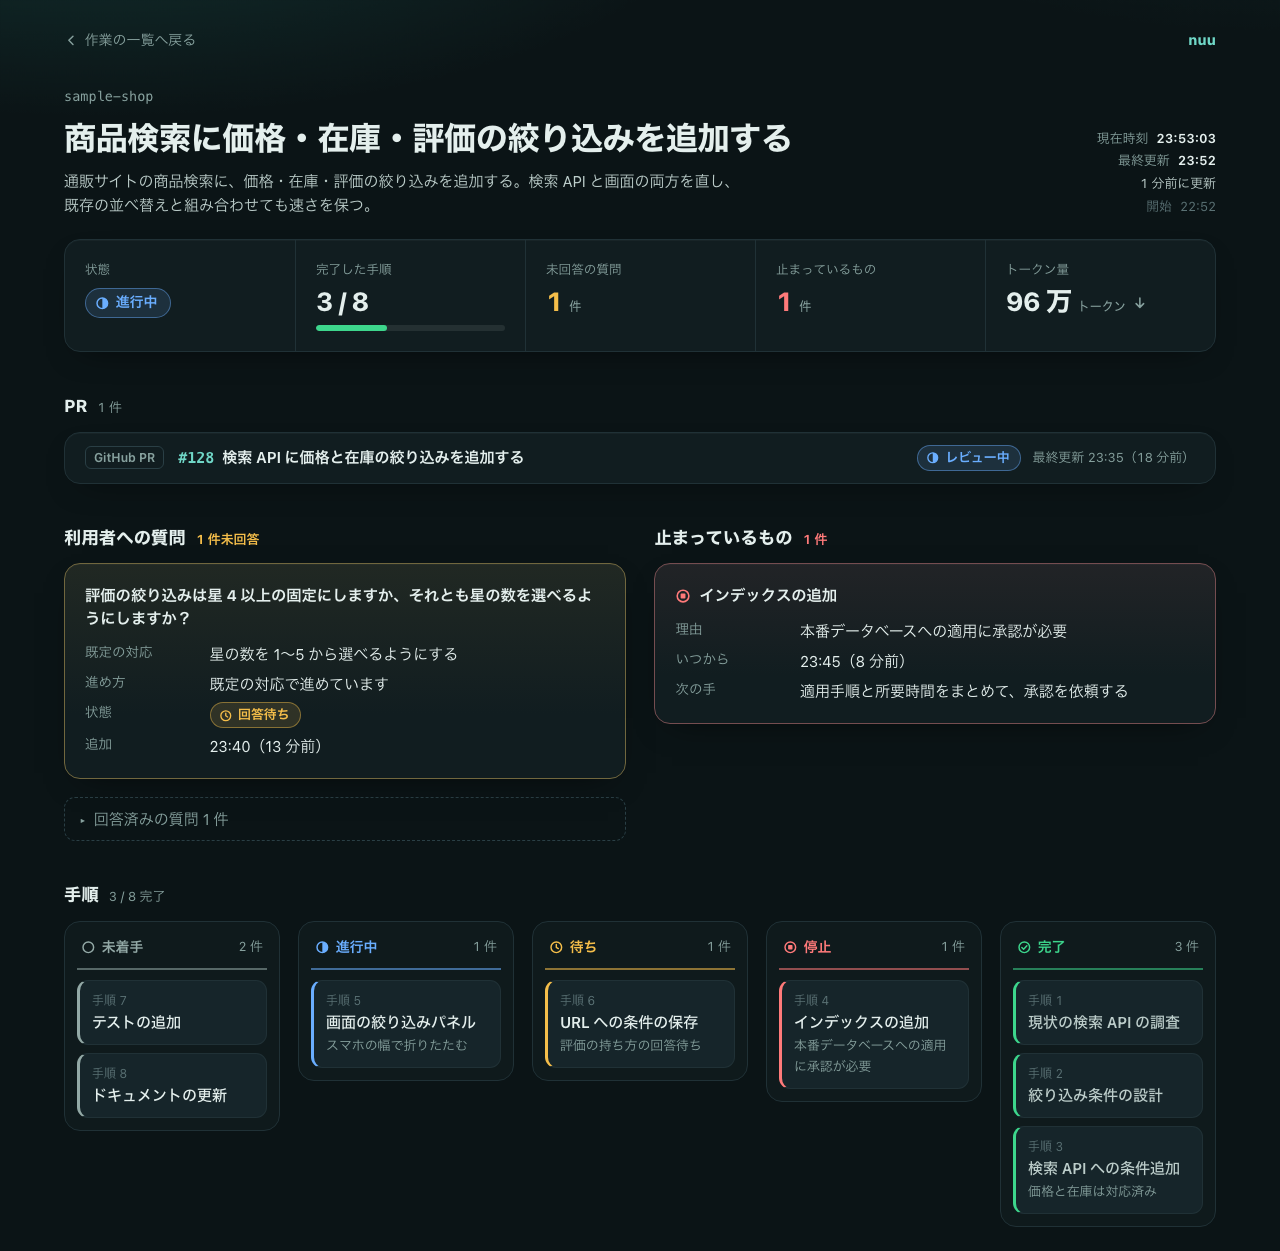
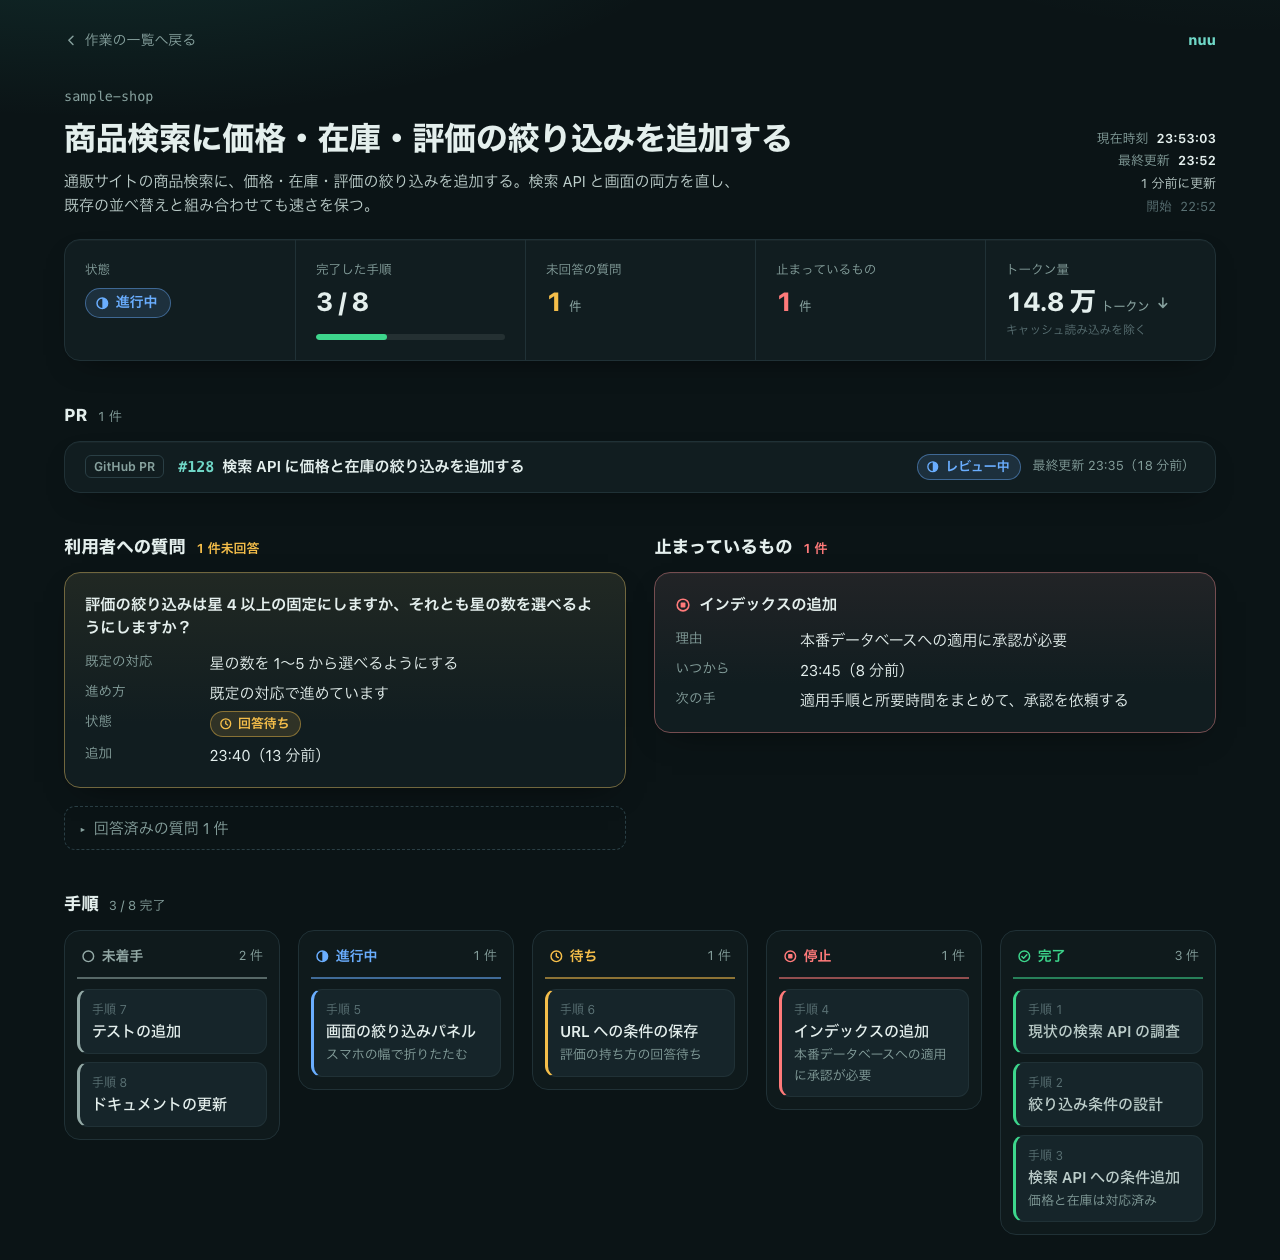
トークン量をキャッシュの読み込みを除いた値で見せる
作業の合計トークンは、応答のたびに会話全体をキャッシュから読み直す分がほとんどを占め、作業の大きさの実感と合わない。主に見せる値を、合計からキャッシュの読み込みを除いた量（入力 + 出力 + キャッシュの書き込み）にする。

- 作業ごとのページの上部の要約は、キャッシュの読み込みを除いた値を出し、「キャッシュ読み込みを除く」と添える
- 下部のトークン量は、キャッシュの読み込みを除いた値の下に、キャッシュの読み込みを含む合計を並べる
- 一覧の各行は、キャッシュの読み込みを除いた値を出し、状態ごとの件数の下にその旨を 1 行添える
- cacheRead がないか数でなければ 0 として扱い、結果が負になるときは 0 にする
- .usage.js の形と集計のしかたは変えない
- README と説明ページに、見せ方とその理由を書く

diff --git a/client/nuu.js b/client/nuu.js
@@ -112,6 +112,13 @@
     return /^https:\/\/[^\s\/?#]+([\/?#]\S*)?$/.test(text(url)) ? text(url) : null;
   }
 
+  // 合計からキャッシュの読み込みを除いた量（入力 + 出力 + キャッシュの書き込み）。集計前は null。
+  // 応答のたびに会話全体をキャッシュから読み直すので、合計のほとんどはキャッシュの読み込みになり、作業の大きさの実感と合わない。
+  function freshTokens(totals) {
+    if (!isObject(totals) || num(totals.total) === null) return null;
+    return Math.max(0, num(totals.total) - (num(totals.cacheRead) || 0));
+  }
+
   // 作業ディレクトリを単一引用符で囲み、中の ' は '\'' に置き換える。
   function resumeCommand(sessionId, cwd) {
     var command = 'claude --resume ' + sessionId;
@@ -386,12 +393,13 @@
     var tokens = input.tokens === null
       ? [h('span', { class: 'nuu-big nuu-muted', text: '集計前' }), icon('down')]
       : [h('span', { class: 'nuu-big', text: short(input.tokens) }), h('span', { class: 'nuu-unit', text: 'トークン' }), icon('down')];
+    var tokenNote = input.tokens === null ? null : h('span', { class: 'nuu-stat-note', 'data-role': 'token-note', text: 'キャッシュ読み込みを除く' });
     return [
       stat('状態', workBadge(input.status, 'nuu-badge-lg')),
       stat('完了した手順', [h('span', { class: 'nuu-big', text: input.done + ' / ' + input.total })], null, bar(input.done, input.total, 'done')),
       stat('未回答の質問', [h('span', { class: 'nuu-big', 'data-tone': input.questions ? 'waiting' : null, text: input.questions }), h('span', { class: 'nuu-unit', text: '件' })]),
       stat('止まっているもの', [h('span', { class: 'nuu-big', 'data-tone': input.blockers ? 'blocked' : null, text: input.blockers }), h('span', { class: 'nuu-unit', text: '件' })]),
-      stat('トークン量', tokens, { href: '#usage', class: 'nuu-stat nuu-stat-link', 'data-role': 'token-total' })
+      stat('トークン量', tokens, { href: '#usage', class: 'nuu-stat nuu-stat-link', 'data-role': 'token-total' }, tokenNote)
     ];
   }
 
@@ -801,21 +809,25 @@
     return group === 'byCategory' ? (isObject(holder) ? num(holder.total) : null) : num(holder);
   }
 
+  function usageTotal(label, value, role) {
+    return h('div', { class: 'nuu-usage-total' }, [
+      h('span', { class: 'nuu-field-label', text: label }),
+      h('div', { class: 'nuu-usage-values' }, [
+        h('strong', { class: 'nuu-big', 'data-role': role + '-short', text: short(value) }),
+        h('span', { class: 'nuu-unit', text: 'トークン' }),
+        h('span', { class: 'nuu-exact', 'data-role': role + '-exact', text: exact(value) })
+      ])
+    ]);
+  }
+
   function renderUsage(input) {
     var head = sectionHead('トークン量', null);
     if (!isObject(input) || !isObject(input.totals)) return [head, h('p', { class: 'nuu-empty', 'data-role': 'usage-empty', text: '集計前' })];
-    var total = num(input.totals.total) || 0;
     return [
       head,
       h('div', { class: 'nuu-card nuu-usage' }, [
-        h('div', { class: 'nuu-usage-total' }, [
-          h('span', { class: 'nuu-field-label', text: '合計' }),
-          h('div', { class: 'nuu-usage-values' }, [
-            h('strong', { class: 'nuu-big', 'data-role': 'usage-short', text: short(total) }),
-            h('span', { class: 'nuu-unit', text: 'トークン' }),
-            h('span', { class: 'nuu-exact', 'data-role': 'usage-exact', text: exact(total) })
-          ])
-        ]),
+        usageTotal('キャッシュ読み込みを除く', freshTokens(input.totals) || 0, 'usage-fresh'),
+        usageTotal('合計（キャッシュ読み込みを含む）', num(input.totals.total) || 0, 'usage'),
         h('div', { class: 'nuu-usage-groups' }, USAGE_PARTS.map(function (part) {
           return h('div', { class: 'nuu-usage-group' }, [
             h('h3', { class: 'nuu-h3', text: part[0] }),
@@ -857,7 +869,7 @@
         total: tasks.length,
         questions: questions.filter(function (q) { return !isAnswered(q); }).length,
         blockers: blockers.length,
-        tokens: u && isObject(u.totals) ? num(u.totals.total) : null
+        tokens: u ? freshTokens(u.totals) : null
       }, renderStats) || any;
       var reviews = d ? list(d.reviews).filter(isObject) : [];
       any = slot(root, 'reviews', d && reviews, renderReviews) || any;
@@ -928,7 +940,7 @@
   function indexRow(item) {
     var href = itemHref(item);
     var usage = item.usage;
-    var tokens = usage && isObject(usage.totals) ? num(usage.totals.total) : null;
+    var tokens = usage ? freshTokens(usage.totals) : null;
     var session = usage && text(usage.sessionId) ? text(usage.sessionId).slice(0, 8) : null;
     var status = workStatus(item.status);
     var done = num(item.done) || 0;
@@ -996,7 +1008,7 @@
         h('span', { text: WORK[key].label }),
         h('strong', { text: groups[key].length })
       ]);
-    });
+    }).concat([h('p', { class: 'nuu-note nuu-overview-note', 'data-role': 'token-note', text: 'トークン量は、キャッシュの読み込みを除いた量です' })]);
   }
 
   // 一覧のデータ（と作業ごとの .usage.js の値）を受け取り、変わった欄だけを描き直す。

diff --git a/tests/client/task.spec.js b/tests/client/task.spec.js
@@ -463,6 +463,7 @@ test.describe('トークン量', () => {
     await expect(root(page)).toHaveAttribute('data-usage-state', 'missing');
     await expect(page.locator('[data-role="token-total"]')).toContainText('集計前');
     await expect(page.locator('[data-role="token-total"]')).toHaveAttribute('href', '#usage');
+    await expect(page.locator('[data-role="token-note"]')).toHaveCount(0);
     await expect(page.locator('#usage')).toContainText('集計前');
     await expect(page.locator('#session')).toContainText('集計前');
     await expect(page.locator('.nuu-panel')).toHaveCount(7);
@@ -470,13 +471,54 @@ test.describe('トークン量', () => {
 
   test('大きな数は短く出し、正確な値を 3 桁区切りで添える', async ({ page }) => {
     await openAt(page, board.taskUrl());
-    await expect(page.locator('[data-role="token-total"]')).toContainText('96 万');
     await expect(page.locator('[data-role="usage-short"]')).toHaveText('96 万');
     await expect(page.locator('[data-role="usage-exact"]')).toHaveText('959,950');
     await expect(page.locator('#usage')).toContainText('目安です。サブエージェントの出力トークンは少なめに出ることがあります');
     const formats = await page.evaluate(() => [8500, 10000, 191000, 959950, 1180000, 99999999, 123456789, 0].map(window.NUU.format.short));
     expect(formats).toEqual(['8,500', '1 万', '19.1 万', '96 万', '118 万', '1 億', '1.2 億', '0']);
     expect(await page.evaluate(() => window.NUU.format.exact(1234567))).toBe('1,234,567');
+  });
+
+  test('上部の要約と下部の先頭は、合計からキャッシュの読み込みを除いた値を出し、下部には合計も並べる', async ({ page }) => {
+    await openAt(page, board.taskUrl());
+    const top = page.locator('[data-role="token-total"]');
+    await expect(top.locator('.nuu-big')).toHaveText('14.8 万');
+    await expect(top.locator('[data-role="token-note"]')).toHaveText('キャッシュ読み込みを除く');
+    const labels = page.locator('#usage .nuu-usage-total .nuu-field-label');
+    await expect(labels).toHaveText(['キャッシュ読み込みを除く', '合計（キャッシュ読み込みを含む）']);
+    // 合計は、キャッシュの読み込みを除いた値の下に並べる。
+    const fresh = await page.locator('[data-role="usage-fresh-short"]').boundingBox();
+    const total = await page.locator('[data-role="usage-short"]').boundingBox();
+    expect(total.y).toBeGreaterThanOrEqual(fresh.y + fresh.height);
+    await expect(page.locator('[data-role="usage-fresh-short"]')).toHaveText('14.8 万');
+    await expect(page.locator('[data-role="usage-fresh-exact"]')).toHaveText('147,550');
+    await expect(page.locator('[data-role="usage-short"]')).toHaveText('96 万');
+    await expect(page.locator('[data-role="usage-exact"]')).toHaveText('959,950');
+    // 内訳と種類は今までどおり、キャッシュの読み込みも含めて出す。
+    await expect(page.locator('#usage .nuu-usage-item').filter({ hasText: 'キャッシュ読み込み' })).toContainText('812,400');
+  });
+
+  test('キャッシュの読み込みがないときは合計をそのまま使い、合計より大きいときは 0 にする', async ({ page }) => {
+    const missing = usage();
+    delete missing.totals.cacheRead;
+    board.writeUsage(SAMPLE, missing);
+    await openAt(page, board.taskUrl());
+    await expect(page.locator('[data-role="token-total"] .nuu-big')).toHaveText('96 万');
+    await expect(page.locator('[data-role="usage-fresh-exact"]')).toHaveText('959,950');
+
+    const broken = usage();
+    broken.totals.cacheRead = 'many';
+    board.writeUsage(SAMPLE, broken);
+    await nextPoll(page);
+    await expect(page.locator('[data-role="usage-fresh-exact"]')).toHaveText('959,950');
+
+    const over = usage();
+    over.totals.cacheRead = 1000000;
+    board.writeUsage(SAMPLE, over);
+    await nextPoll(page);
+    await expect(page.locator('[data-role="token-total"] .nuu-big')).toHaveText('0');
+    await expect(page.locator('[data-role="usage-fresh-exact"]')).toHaveText('0');
+    await expect(page.locator('[data-role="usage-exact"]')).toHaveText('959,950');
   });
 
   test('正常な .usage.js の読み直しは成功、構文が壊れた .usage.js は失敗として扱い、表示は前の値のまま', async ({ page }) => {
@@ -495,7 +537,7 @@ test.describe('トークン量', () => {
     await nextPoll(page);
     await expect(root(page)).toHaveAttribute('data-usage-state', 'ok');
     await expect(page.locator('[data-role="usage-short"]')).toHaveText('200 万');
-    await expect(page.locator('[data-role="token-total"]')).toContainText('200 万');
+    await expect(page.locator('[data-role="token-total"]')).toContainText('119 万');
 
     // 同じ内容をもう一度読んでも、入れ替わったので成功として扱う。
     await nextPoll(page);

diff --git a/docs/index.html b/docs/index.html
@@ -224,7 +224,7 @@ footer { max-width: 1000px; margin: 0 auto; padding-top: 40px; border-top: 1px s
     </div>
     <div class="shots">
       <figure class="shot">
-        <img src="images/dashboard-desktop.png" width="1280" height="1251" alt="作業ごとのダッシュボードの上部。状態、完了した手順、未回答の質問、止まっているもの、トークン量の要約。そのすぐ下に作業に関係する PR / MR を並べた「PR」の欄（GitHub の PR #128、題名、レビュー中の札、最終更新）。その下に利用者への質問と止まっているもの、未着手、進行中、待ち、停止、完了の列に分かれた手順のカンバンが並ぶ">
+        <img src="images/dashboard-desktop.png" width="1280" height="1260" alt="作業ごとのダッシュボードの上部。状態、完了した手順、未回答の質問、止まっているもの、トークン量の要約。そのすぐ下に作業に関係する PR / MR を並べた「PR」の欄（GitHub の PR #128、題名、レビュー中の札、最終更新）。その下に利用者への質問と止まっているもの、未着手、進行中、待ち、停止、完了の列に分かれた手順のカンバンが並ぶ">
         <figcaption>作業ごとのダッシュボード。架空の通販サイトの作業で作った見本です。</figcaption>
       </figure>
       <figure class="shot phone">
@@ -238,14 +238,14 @@ footer { max-width: 1000px; margin: 0 auto; padding-top: 40px; border-top: 1px s
       <li><b>質問と既定の対応</b><span>判断が必要になっても止まらず、既定の対応で進めていることを載せます。</span></li>
       <li><b>止まっているもの</b><span>何が、なぜ、いつから止まっていて、次に何をするかを載せます。</span></li>
       <li><b>作業の PR / MR</b><span>作業に関係する GitHub の PR と GitLab の MR を、番号、題名、状態（下書き、レビュー中、マージ済み、閉じた）と一緒に載せます。一覧の行の札からも開けます。</span></li>
-      <li><b>トークン量の目安</b><span>作業本体と、ダッシュボードの作成と更新に分けて、使ったトークン量を出します。</span></li>
+      <li><b>トークン量の目安</b><span>作業本体と、ダッシュボードの作成と更新に分けて、使ったトークン量を出します。上部と一覧には、大半を占めるキャッシュの読み込みを除いた量を出し、合計は下部に並べます。</span></li>
       <li><b>作業したセッションに戻る</b><span>セッションの ID と、<code>claude --resume</code> で再開するコマンドを載せます。コピーして、作業した会話に戻れます。</span></li>
       <li><b>全体の一覧</b><span>全プロジェクトの作業を並べ、更新が止まっている作業を目立たせます。</span></li>
       <li><b>ブラウザで開くだけ</b><span>サーバーもツールも要りません。HTML を開けばブラウザで見られ、10 秒ごとにデータだけを読み直します。ページごと再読み込みしないので、ちらつかず、スクロール位置もそのままです。</span></li>
       <li><b>好みはひとつ</b><span>テーマ、密度、アクセントカラー、タスクの表示を、すべてのダッシュボードで共通に使います。変えると、開いているページにも 10 秒ほどで届きます。</span></li>
     </ul>
     <figure class="shot">
-      <img src="images/index-desktop.png" width="1280" height="1387" alt="全プロジェクトの作業を進行中、中断中、完了に分けて並べた一覧。各行に作業名、プロジェクト名、セッションの ID の先頭、PR / MR の札（PR #128、MR !42 など。多いときは先頭の 3 件と「ほか n 件」）、状態、完了した手順、未回答の質問、止まっているもの、トークン量が並び、15 分以上更新のない進行中の作業は目立たせる">
+      <img src="images/index-desktop.png" width="1280" height="1419" alt="全プロジェクトの作業を進行中、中断中、完了に分けて並べた一覧。各行に作業名、プロジェクト名、セッションの ID の先頭、PR / MR の札（PR #128、MR !42 など。多いときは先頭の 3 件と「ほか n 件」）、状態、完了した手順、未回答の質問、止まっているもの、トークン量が並び、15 分以上更新のない進行中の作業は目立たせる">
       <figcaption>全プロジェクトの作業の一覧。</figcaption>
     </figure>
     <figure class="shot">

diff --git a/tests/client/index.spec.js b/tests/client/index.spec.js
@@ -16,7 +16,7 @@ const titles = (page, group) => page.locator(`.nuu-group[data-group="${group}"] 
 // 一覧の行のトークン量を読み終えるまで待つ（行ごとの .usage.js は一覧のデータのあとに読む）。
 async function openIndex(page, seconds) {
   await openAt(page, board.indexUrl(), seconds);
-  await expect(page.locator('.nuu-row[data-key="sample-shop/2026-09-28-2252-search-filters"] [data-role="row-tokens"]')).toContainText('96 万');
+  await expect(page.locator('.nuu-row[data-key="sample-shop/2026-09-28-2252-search-filters"] [data-role="row-tokens"]')).toContainText('14.8 万');
 }
 
 test('進行中、中断中、完了の順に分け、それぞれ最終更新が新しい順に並べる', async ({ page }) => {
@@ -52,18 +52,38 @@ test('進行中で 15 分以上更新がない作業だけを目立たせる', a
   await expect(row('sample-shop/2026-09-28-2252-search-filters')).toHaveAttribute('data-stale', '');
 });
 
-test('作業ごとのトークン量とセッションの ID の先頭 8 文字を出す', async ({ page }) => {
+test('作業ごとのトークン量（キャッシュの読み込みを除く）とセッションの ID の先頭 8 文字を出す', async ({ page }) => {
   await openIndex(page);
   const shop = page.locator('.nuu-row[data-key="sample-shop/2026-09-28-2252-search-filters"]');
-  await expect(shop.locator('[data-role="row-tokens"]')).toContainText('96 万');
-  await expect(shop.locator('[data-role="row-tokens"]')).toContainText('959,950');
+  await expect(shop.locator('[data-role="row-tokens"]')).toHaveText('14.8 万147,550');
   await expect(shop.locator('[data-role="session-short"]')).toHaveText('セッション 7c1e4a92');
   const app = page.locator('.nuu-row[data-key="sample-app/2026-09-28-1905-login-audit"]');
-  await expect(app.locator('[data-role="row-tokens"]')).toContainText('33.7 万');
+  await expect(app.locator('[data-role="row-tokens"]')).toHaveText('4.7 万46,500');
   await expect(app.locator('[data-role="session-short"]')).toHaveText('セッション 0f9d2c41');
   const docs = page.locator('.nuu-row[data-key="sample-docs/2026-09-27-1010-api-guide"]');
   await expect(docs.locator('[data-role="row-tokens"]')).toHaveText('集計前');
   await expect(docs.locator('[data-role="session-short"]')).toHaveCount(0);
+});
+
+test('状態ごとの件数の下に、トークン量がキャッシュの読み込みを除いた量だと常に添える', async ({ page }) => {
+  await openIndex(page);
+  const note = page.locator('.nuu-summary-strip [data-role="token-note"]');
+  await expect(note).toHaveText('トークン量は、キャッシュの読み込みを除いた量です');
+  await expect(note).toBeVisible();
+  // 件数の札より下の行に出る。
+  const chip = await page.locator('.nuu-overview').last().boundingBox();
+  const box = await note.boundingBox();
+  expect(box.y).toBeGreaterThanOrEqual(chip.y + chip.height);
+});
+
+test('キャッシュの読み込みがない行は合計をそのまま、合計より大きい行は 0 を出す', async ({ page }) => {
+  const shop = 'sample-shop/2026-09-28-2252-search-filters';
+  const app = 'sample-app/2026-09-28-1905-login-audit';
+  board.writeUsage(shop, { since: 1, totals: { input: 18420, output: 64310, cacheWrite: 64820, total: 959950 } });
+  board.writeUsage(app, { since: 1, totals: { input: 0, output: 0, cacheRead: 336501, cacheWrite: 0, total: 336500 } });
+  await openAt(page, board.indexUrl());
+  await expect(page.locator(`.nuu-row[data-key="${shop}"] [data-role="row-tokens"]`)).toHaveText('96 万959,950');
+  await expect(page.locator(`.nuu-row[data-key="${app}"] [data-role="row-tokens"]`)).toHaveText('00');
 });
 
 test('行から作業のページへ移れる。形の違う href はリンクにしない', async ({ page }) => {

diff --git a/client/nuu.css b/client/nuu.css
@@ -288,6 +288,7 @@ code, .nuu-code, .nuu-ref { font-family: var(--mono); font-size: 0.92em; }
 .nuu-stat-label { color: var(--muted); font-size: 0.84em; }
 .nuu-stat-value { display: flex; align-items: baseline; flex-wrap: wrap; gap: 2px; min-height: 1.9em; }
 .nuu-stat .nuu-bar { margin-top: auto; }
+.nuu-stat-note { margin-top: -4px; color: var(--faint); font-size: 0.78em; }
 .nuu-stat-link { position: relative; min-height: 44px; }
 .nuu-stat-link .nuu-icon { color: var(--muted); align-self: center; margin-left: 4px; }
 .nuu-stat-link:hover { background: var(--surface-2); }
@@ -737,6 +738,7 @@ a.nuu-ref { color: var(--accent-text); }
 }
 .nuu-overview .nuu-icon { color: var(--tone); }
 .nuu-overview strong { color: var(--fg); font-variant-numeric: tabular-nums; }
+.nuu-overview-note { flex-basis: 100%; margin: 4px 0 0; }
 
 .nuu-rows { display: grid; gap: var(--gap); }
 .nuu-row {

diff --git a/tests/client/mobile.spec.js b/tests/client/mobile.spec.js
@@ -38,6 +38,8 @@ for (const density of ['airy', 'dense']) {
     await openAt(page, board.taskUrl(SAMPLE));
     await expect(page.locator('.nuu-panel')).toHaveCount(7);
     await expect(page.locator('[data-role="usage-short"]')).toBeVisible();
+    await expect(page.locator('[data-role="usage-fresh-short"]')).toBeVisible();
+    await expect(page.locator('[data-role="token-note"]')).toBeVisible();
     await expect(page.locator('.nuu-review')).toBeVisible();
     await expectNoOverflow(page);
   });
@@ -47,6 +49,7 @@ for (const density of ['airy', 'dense']) {
     await openAt(page, board.indexUrl());
     await expect(page.locator('.nuu-row [data-role="session-short"]').first()).toBeVisible();
     await expect(page.locator('.nuu-review-more')).toBeVisible();
+    await expect(page.locator('[data-role="token-note"]')).toBeVisible();
     await expectNoOverflow(page);
   });
 }

diff --git a/README.md b/README.md
@@ -162,6 +162,8 @@ open ~/.claude/nuu/dashboards/index.html
 - 内訳: 作業本体、ほかのサブエージェント、ダッシュボードの作成と更新
 - 種類: 入力、出力、キャッシュの読み込み、キャッシュの書き込み
 
+作業ごとのダッシュボードの上部と一覧に出すのは、合計からキャッシュの読み込みを除いた量（入力、出力、キャッシュの書き込みの合計）です。Claude Code は応答のたびに会話全体を読み直し、2 回目以降はキャッシュから読むので、合計のほとんどはキャッシュの読み込みになり、作業の大きさの実感と合わないためです。作業ごとのダッシュボードの下部には、キャッシュの読み込みを含む合計も並べます。
+
 目安として使ってください。会話の記録には、サブエージェントの応答の確定した出力トークンが残らないことがあり、その分は少なめに出ます。また、会話の記録の形は Claude Code の公開された仕様ではないため、Claude Code の更新で集計できなくなることがあります。その場合は「集計前」と表示され、ほかの表示には影響しません。
 
 ### 途中で止める
